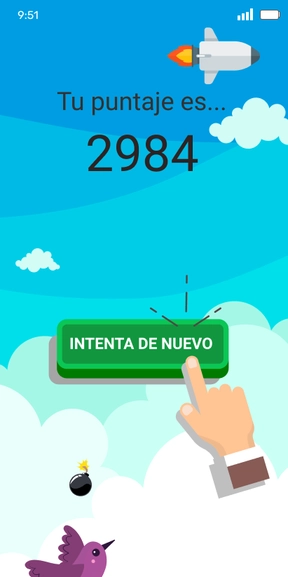
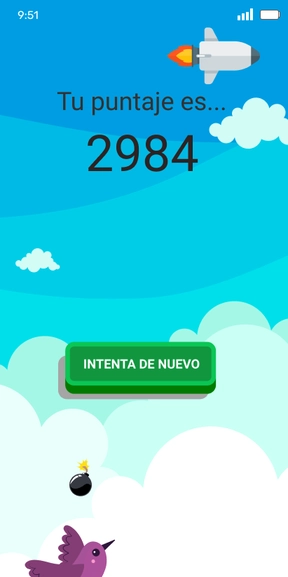
now uses dagger

Changed region(s): [[0.1562, 0.4679, 0.9375, 0.8735]]

diff --git a/app/src/main/java/com/puntogris/purpur/ui/GameView.kt b/app/src/main/java/com/puntogris/purpur/ui/GameView.kt
@@ -12,7 +12,6 @@ import android.view.View
 import androidx.lifecycle.MutableLiveData
 import com.puntogris.purpur.di.injector
 import kotlinx.android.synthetic.main.fragment_game.view.*
-import kotlin.math.abs
 
 class GameView(context: Context?, attrs: AttributeSet?) : View(context, attrs), SensorEventListener {
 
@@ -24,7 +23,6 @@ class GameView(context: Context?, attrs: AttributeSet?) : View(context, attrs), 
         textSize = 80f
         isAntiAlias = true
     }
-
     private val cloud by lazy { injector.cloud }
     private val rocket by lazy { injector.rocket }
     private val bomb by lazy { injector.bomb }
@@ -54,41 +52,47 @@ class GameView(context: Context?, attrs: AttributeSet?) : View(context, attrs), 
     override fun onAccuracyChanged(p0: Sensor?, p1: Int){
     }
 
-    override fun onSensorChanged(p0: SensorEvent?) {
-        val positionZ = (p0!!.values[0] * -1)
-        println(positionZ)
-        if(positionZ < -1) bird.moveLeft()
-        else if(positionZ > 1) bird.moveRight()
+    override fun onSensorChanged(sensor: SensorEvent?) {
+        sensor?.let {
+            val positionZ = (it.values[0] * -1)
+            if(positionZ < -1) bird.moveLeft()
+            else if(positionZ > 1) bird.moveRight()
+        }
     }
 
     override fun onDraw(canvas: Canvas) {
         super.onDraw(canvas)
-
         canvas.apply {
-
             bird.draw(this)
             cloud.draw(this)
-
-            drawText(counterScore.toString(),width - 240f,200f, textPaint )
-
-            if(rocket.timeToLaunch()){
-                rocket.visible()
-                if(rocket.inScreen(width)){
-                    rocket.draw( this)
-                    bomb.drop(width)
-                }
-                if(bomb.inScreen(rocket)){
-                    bomb.draw(this)
-                    if (bomb.outOfScreen(height)){
-                        bomb.explodeSequence()
-                        rocket.resetValues()
-                    }
-                }
-            }
-            checkCollisionBirdBomb()
-            checkCollisionBirdCloud()
+            drawScore()
+            rocketManager()
+            if (bird.collideWithCloud(cloud)) cloud.resetPosition(height,width)
             checkLoser()
         }
+    }
+
+    private fun Canvas.rocketManager(){
+        if(rocket.timeToLaunch()){
+            rocket.visible()
+            if(rocket.inScreen(width)){
+                rocket.draw(this)
+                bomb.drop(width)
+            }
+            if(bomb.inScreen(rocket)){
+                checkCollisionBirdBomb()
+                bomb.draw(this)
+                if (bomb.outOfScreen(height)){
+                    bomb.explodeSequence()
+                    rocket.resetValues()
+                }
+            }
+        }
+    }
+
+
+    private fun Canvas.drawScore(){
+        drawText(counterScore.toString(),width - 240f,200f, textPaint )
     }
 
     private fun startAnimation(){
@@ -98,33 +102,11 @@ class GameView(context: Context?, attrs: AttributeSet?) : View(context, attrs), 
     private fun stopAnimation(){
         removeCallbacks(runnable)
     }
-
-    private fun checkCollisionBirdCloud(){
-        if (
-            abs(cloud.posy - bird.posy) <= 150 &&
-            bird.posx >= (cloud.posx - bird.imageWidth() / 2) &&
-            bird.posx <= (cloud.posx + cloud.image.width - (bird.imageWidth() / 2))){
-                bird.updateVelocityOnCollision()
-                bird.collisionSoundBirdCloud.start()
-                cloud.resetPosition(height, width)
-        }
-    }
-
     private fun checkCollisionBirdBomb(){
-        if(bomb.visibility) {
-            if (
-                bird.posx + bird.imageWidth()/ 2 - 100 >= bomb.posx &&
-                bird.posx - bird.imageWidth() / 2 + 100 <= bomb.posx + bomb.imageScaled.width ){
-                if(
-                    bird.posy <= bomb.posy + bomb.imageScaled.height - 100 &&
-                    bird.posy >= bomb.posy - bird.imageHeight() + 100){
-                        bomb.bombSound.stop()
-                        bomb.bombSound.prepareAsync()
-                        stopAnimation()
-                        didPlayerLose.value = true
-                        sensorManager.unregisterListener(this)
-                }
-            }
+        if (bird.collideWithBomb(bomb)){
+            stopAnimation()
+            didPlayerLose.value = true
+            sensorManager.unregisterListener(this)
         }
     }
 

diff --git a/app/src/main/java/com/puntogris/purpur/models/Bird.kt b/app/src/main/java/com/puntogris/purpur/models/Bird.kt
@@ -5,6 +5,7 @@ import android.graphics.BitmapFactory
 import android.graphics.Canvas
 import android.media.MediaPlayer
 import com.puntogris.purpur.R
+import kotlin.math.abs
 import javax.inject.Inject
 
 class Bird @Inject constructor(var posx: Double = 0.0 ,var posy: Double = 500.0 ,var velocity: Double = 1.0, val context: Context?){
@@ -12,7 +13,7 @@ class Bird @Inject constructor(var posx: Double = 0.0 ,var posy: Double = 500.0 
     private val birdImage1 = BitmapFactory.decodeResource(context?.resources, R.raw.bird1)
     private val birdImage2 = BitmapFactory.decodeResource(context?.resources, R.raw.bird2)
     private var birdImageFinal = birdImage1
-    val collisionSoundBirdCloud: MediaPlayer = MediaPlayer.create(context, R.raw.bouncesound)
+    private val collisionSoundBirdCloud: MediaPlayer = MediaPlayer.create(context, R.raw.bouncesound)
     private var animationCounter = 0
 
     fun updateVelocity(){
@@ -24,7 +25,7 @@ class Bird @Inject constructor(var posx: Double = 0.0 ,var posy: Double = 500.0 
         posx = width / 2.0
     }
 
-    fun updateVelocityOnCollision(){
+    private fun updateVelocityOnCollision(){
         velocity *= -1
         velocity -= 0.5
     }
@@ -52,8 +53,8 @@ class Bird @Inject constructor(var posx: Double = 0.0 ,var posy: Double = 500.0 
          animationCounter += 1
     }
 
-    fun imageWidth() = birdImageFinal.width
-    fun imageHeight() = birdImageFinal.height
+    private fun imageWidth() = birdImageFinal.width
+    private fun imageHeight() = birdImageFinal.height
 
     fun moveLeft(){
         posx -= 2
@@ -61,5 +62,35 @@ class Bird @Inject constructor(var posx: Double = 0.0 ,var posy: Double = 500.0 
     fun moveRight(){
         posx += 2
     }
+
+     fun collideWithCloud(cloud: Cloud): Boolean{
+        if (
+            abs(cloud.posy - posy) <= 150 &&
+            posx >= (cloud.posx - imageWidth() / 2) &&
+            posx <= (cloud.posx + cloud.image.width - (imageWidth() / 2))) {
+            updateVelocityOnCollision()
+            collisionSoundBirdCloud.start()
+            return true
+        }
+         return false
+    }
+
+    fun collideWithBomb(bomb:Bomb): Boolean{
+        if(bomb.visibility) {
+            if (
+                posx + imageWidth()/ 2 - 100 >= bomb.posx &&
+                posx - imageWidth() / 2 + 100 <= bomb.posx + bomb.imageScaled.width ){
+                if(
+                    posy <= bomb.posy + bomb.imageScaled.height - 100 &&
+                    posy >= bomb.posy - imageHeight() + 100){
+                    bomb.bombSound.stop()
+                    bomb.bombSound.prepareAsync()
+                    return true
+                }
+            }
+        }
+        return false
+    }
+
 
 }

diff --git a/app/src/main/java/com/puntogris/purpur/MusicService.kt b/app/src/main/java/com/puntogris/purpur/MusicService.kt
@@ -7,28 +7,23 @@ import android.os.IBinder
 
 
 class MusicService: Service() {
-    private lateinit var player: MediaPlayer
+    private lateinit var backgroundMusic: MediaPlayer
 
     override fun onStartCommand(intent: Intent, flags: Int, startId: Int): Int {
-        player.start()
+        backgroundMusic.start()
         return START_STICKY
     }
 
-    override fun onBind(p0: Intent?): IBinder? {
-        return null
-    }
+    override fun onBind(p0: Intent?): IBinder? = null
 
     override fun onCreate() {
-        player = MediaPlayer.create(this, R.raw.backgroundmusic)
-
-
+        backgroundMusic = MediaPlayer.create(this, R.raw.backgroundmusic)
     }
 
     override fun onDestroy() {
         super.onDestroy()
-        player.stop()
-        player.release()
+        backgroundMusic.stop()
+        backgroundMusic.release()
     }
-
 
 }

diff --git a/app/src/main/java/com/puntogris/purpur/ui/GameViewModel.kt b/app/src/main/java/com/puntogris/purpur/ui/GameViewModel.kt
@@ -4,7 +4,7 @@ import androidx.lifecycle.LiveData
 import androidx.lifecycle.MutableLiveData
 import androidx.lifecycle.ViewModel
 
-class GameViewModel:ViewModel() {
+class GameViewModel: ViewModel() {
 
     private val _playerScore = MutableLiveData<String>()
     val playerScore:LiveData<String> = _playerScore

diff --git a/app/src/main/java/com/puntogris/purpur/models/Bomb.kt b/app/src/main/java/com/puntogris/purpur/models/Bomb.kt
@@ -5,6 +5,7 @@ import android.graphics.Bitmap
 import android.graphics.BitmapFactory
 import android.graphics.Canvas
 import android.media.MediaPlayer
+import com.puntogris.purpur.MusicService
 import com.puntogris.purpur.R
 import kotlinx.android.synthetic.main.fragment_game.view.*
 import javax.inject.Inject

diff --git a/app/src/main/java/com/puntogris/purpur/models/Cloud.kt b/app/src/main/java/com/puntogris/purpur/models/Cloud.kt
@@ -24,7 +24,7 @@ class Cloud @Inject constructor(var posx: Double = 0.0, var posy: Double = 0.0, 
     }
 
     fun setInitialPosition(width: Int, height: Int){
-        posx = width/ 2.0
+        posx = width / 2.0
         posy = height.toDouble()
     }
 

diff --git a/README.md b/README.md
@@ -6,6 +6,7 @@ Used in this project:</br>
   * MVVM
   * Canvas
   * Music
+  * Dagger
  
 ![N|Solid](https://github.com/puntogris/purpur/blob/master/screenshots/1.webp)
 ![N|Solid](https://github.com/puntogris/purpur/blob/master/screenshots/2.webp)
